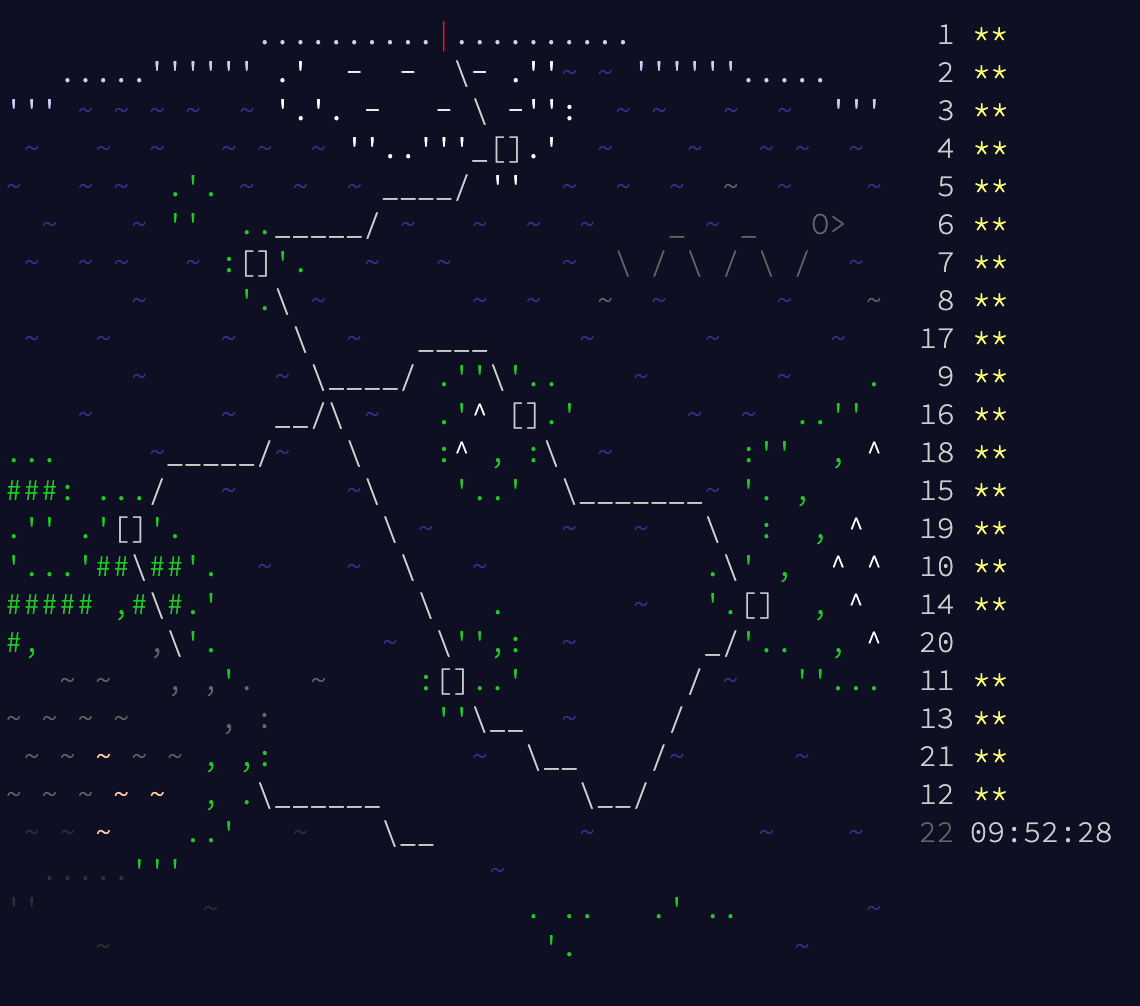
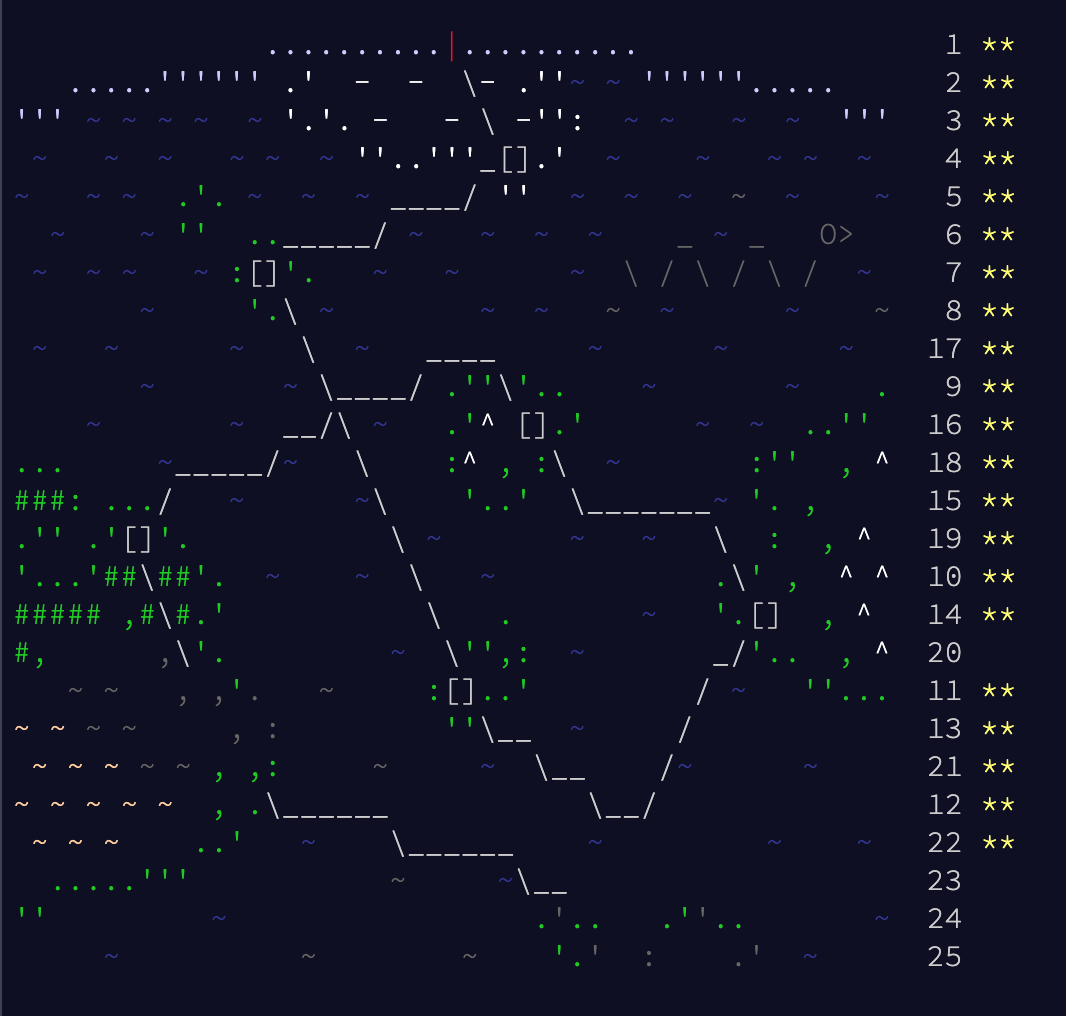
2020:22.p2

diff --git a/2020/day22/index.js b/2020/day22/index.js
@@ -5,7 +5,7 @@ console.clear()
 
 const day = '22'
 const dir = `2020/day${day}`
-const filename = `${day}.sample`
+const filename = `${day}.in`
 
 let players = new Map()
 let input = 
@@ -19,70 +19,105 @@ let input =
 
 /**
  * @name dealCards
- * @description deals cards from the top and updates
- * 'players' map
- * @param {Map<String, Array>} playersMap map of players and cards
+ * @description loops through cards and check which card is higher
+ *              giving the winner both of the cards in order
+ *              high to low
+ * @param {Array<number>} p1 array of cards Player 1 has
+ * @param {Array<number>} p2 array of cards Player 2 has
  * 
- * @returns {boolean} has someone won?
+ * @returns {Array<number>} winning deck of cards
  */
-const dealCards = (playersMap) => {
-  let player1cards = playersMap.get('Player 1')
-  let player2cards = playersMap.get('Player 2')
-  if (player1cards[0] > player2cards[0]) {
-    player1cards.push(player1cards[0], player2cards[0])
-  } else if (player1cards[0] < player2cards[0]) {
-    player2cards.push(player2cards[0], player1cards[0])
-  } else {
-    player1cards.push(player1cards[0])
-    player2cards.push(player2cards[0])
-  }
-  player1cards.shift()
-  player2cards.shift()
-  playersMap.set('Player 1', player1cards)
-  playersMap.set('Player 2', player2cards)
+const dealCards = (p1, p2) => {
+  while(p1.length > 0 && p2.length > 0) {
+    const p1card = p1.shift()
+    const p2card = p2.shift()
   
-  if(player1cards.length === 0 || player2cards.length === 0) return false
-  return true
+    if (p1card > p2card) {
+      // Player 1 wins
+      p1.push(p1card)
+      p1.push(p2card)
+    } else {
+      // Player 2 wins
+      p2.push(p2card)
+      p2.push(p1card)
+    }
+  }
+
+  return p1.length > 0
+    ? p1
+    : p2
+}
+
+/**
+ * @name recursiveRound
+ * @description Deals cards based on set of rules and goes into
+ *              a recursion with new set of cards (excluding those
+ *              that were picked from the top)
+ *
+ * @param {Array<number>} p1
+ * @param {Array<number>} p2
+ * @return {winner: number, deck: Array<number>} returns an object
+ *              that contains id of a winner as well as the winning
+ *              deck of cards
+ */
+const recursiveRound = (p1, p2) => {
+  let winner;
+  let round = 0
+  let previousGames = new Set()
+
+  while(p1.length > 0 && p2.length > 0) {
+    round++
+    
+    const gameState = `${p1.join(',')}#${p2.join(',')}`
+    // console.log('previousGames', previousGames)
+    // console.log(round, gameState)
+    if(previousGames.has(gameState)) {
+      return {winner: 1, deck: p1}
+    }
+    previousGames.add(gameState)
+    
+    const p1card = p1.shift()
+    const p2card = p2.shift()
+    // console.log('  ->', p1, p2)
+    
+    if(p1.length >= p1card && p2.length >= p2card) {
+      const res = recursiveRound(p1.slice(0, p1card), p2.slice(0, p2card))
+      winner = res.winner
+    } else {
+      winner = p1card > p2card ? 1 : 2
+    }
+
+    if(winner == 1) {
+      p1.push(p1card)
+      p1.push(p2card)
+    } else {
+      p2.push(p2card)
+      p2.push(p1card)
+    }
+  }
+
+  return {
+    winner: p1.length > 0 ? 1 : 2,
+    deck: p1.length > 0 ? p1 : p2
+  }
 }
 
 const part1 = () => {
   let GAME1_players = _.cloneDeep(players)
-  let deal = true
-  while(deal) {
-    deal = dealCards(GAME1_players)
-  }
-
-  let winningPlayer;
-  GAME1_players.forEach((cards, name) => {
-    if(cards.length !== 0) winningPlayer = name
-  })
-  
-  const winningCards = GAME1_players.get(winningPlayer)
-  let sum = 0
-  for(let i = 0; i < winningCards.length; i++) {
-    sum += winningCards[i] * (winningCards.length - i)
-  }
-  return sum
+  const winningDeck = dealCards(GAME1_players.get('Player 1'), GAME1_players.get('Player 2'))
+  return winningDeck.reduce((prev, curr, index) => prev + (curr * (winningDeck.length - index)), 0)
 }
 
+
 const part2 = () => {
-  console.log('\n\n—————————— PART 2 ——————————')
-  console.log('       expecting 291')
-  console.log('————————————————————————————\n\n')
-
   let GAME2_players = _.cloneDeep(players)
-  console.log(GAME2_players)
-
-  let previousRounds = new Map() // Map<Number, Map<String, Array>>
-  let i = 0
-  let winner;
-  if (previousRounds.has(i - 1)) {
-    const prev = previousRounds.get(i-1)
-    const curr = previousRounds.get(i)
-    if(_.isEqual(prev, curr)) {
-      winner = 'Player 1'
-    }
-  }
+  const winningData = recursiveRound(GAME2_players.get('Player 1'), GAME2_players.get('Player 2'))
+  // console.log(deck)
+  return winningData
+    .deck
+    .reduce(
+      (prev, curr, index) => 
+        prev + (curr * (winningData.deck.length - index)), 0)
 }
 
 console.time('part1')

diff --git a/2020/day22/README.md b/2020/day22/README.md
@@ -1,1 +1,2 @@
-#### part1: 2.117ms
+#### part1: 2.163ms
+#### part2: 1.809s
